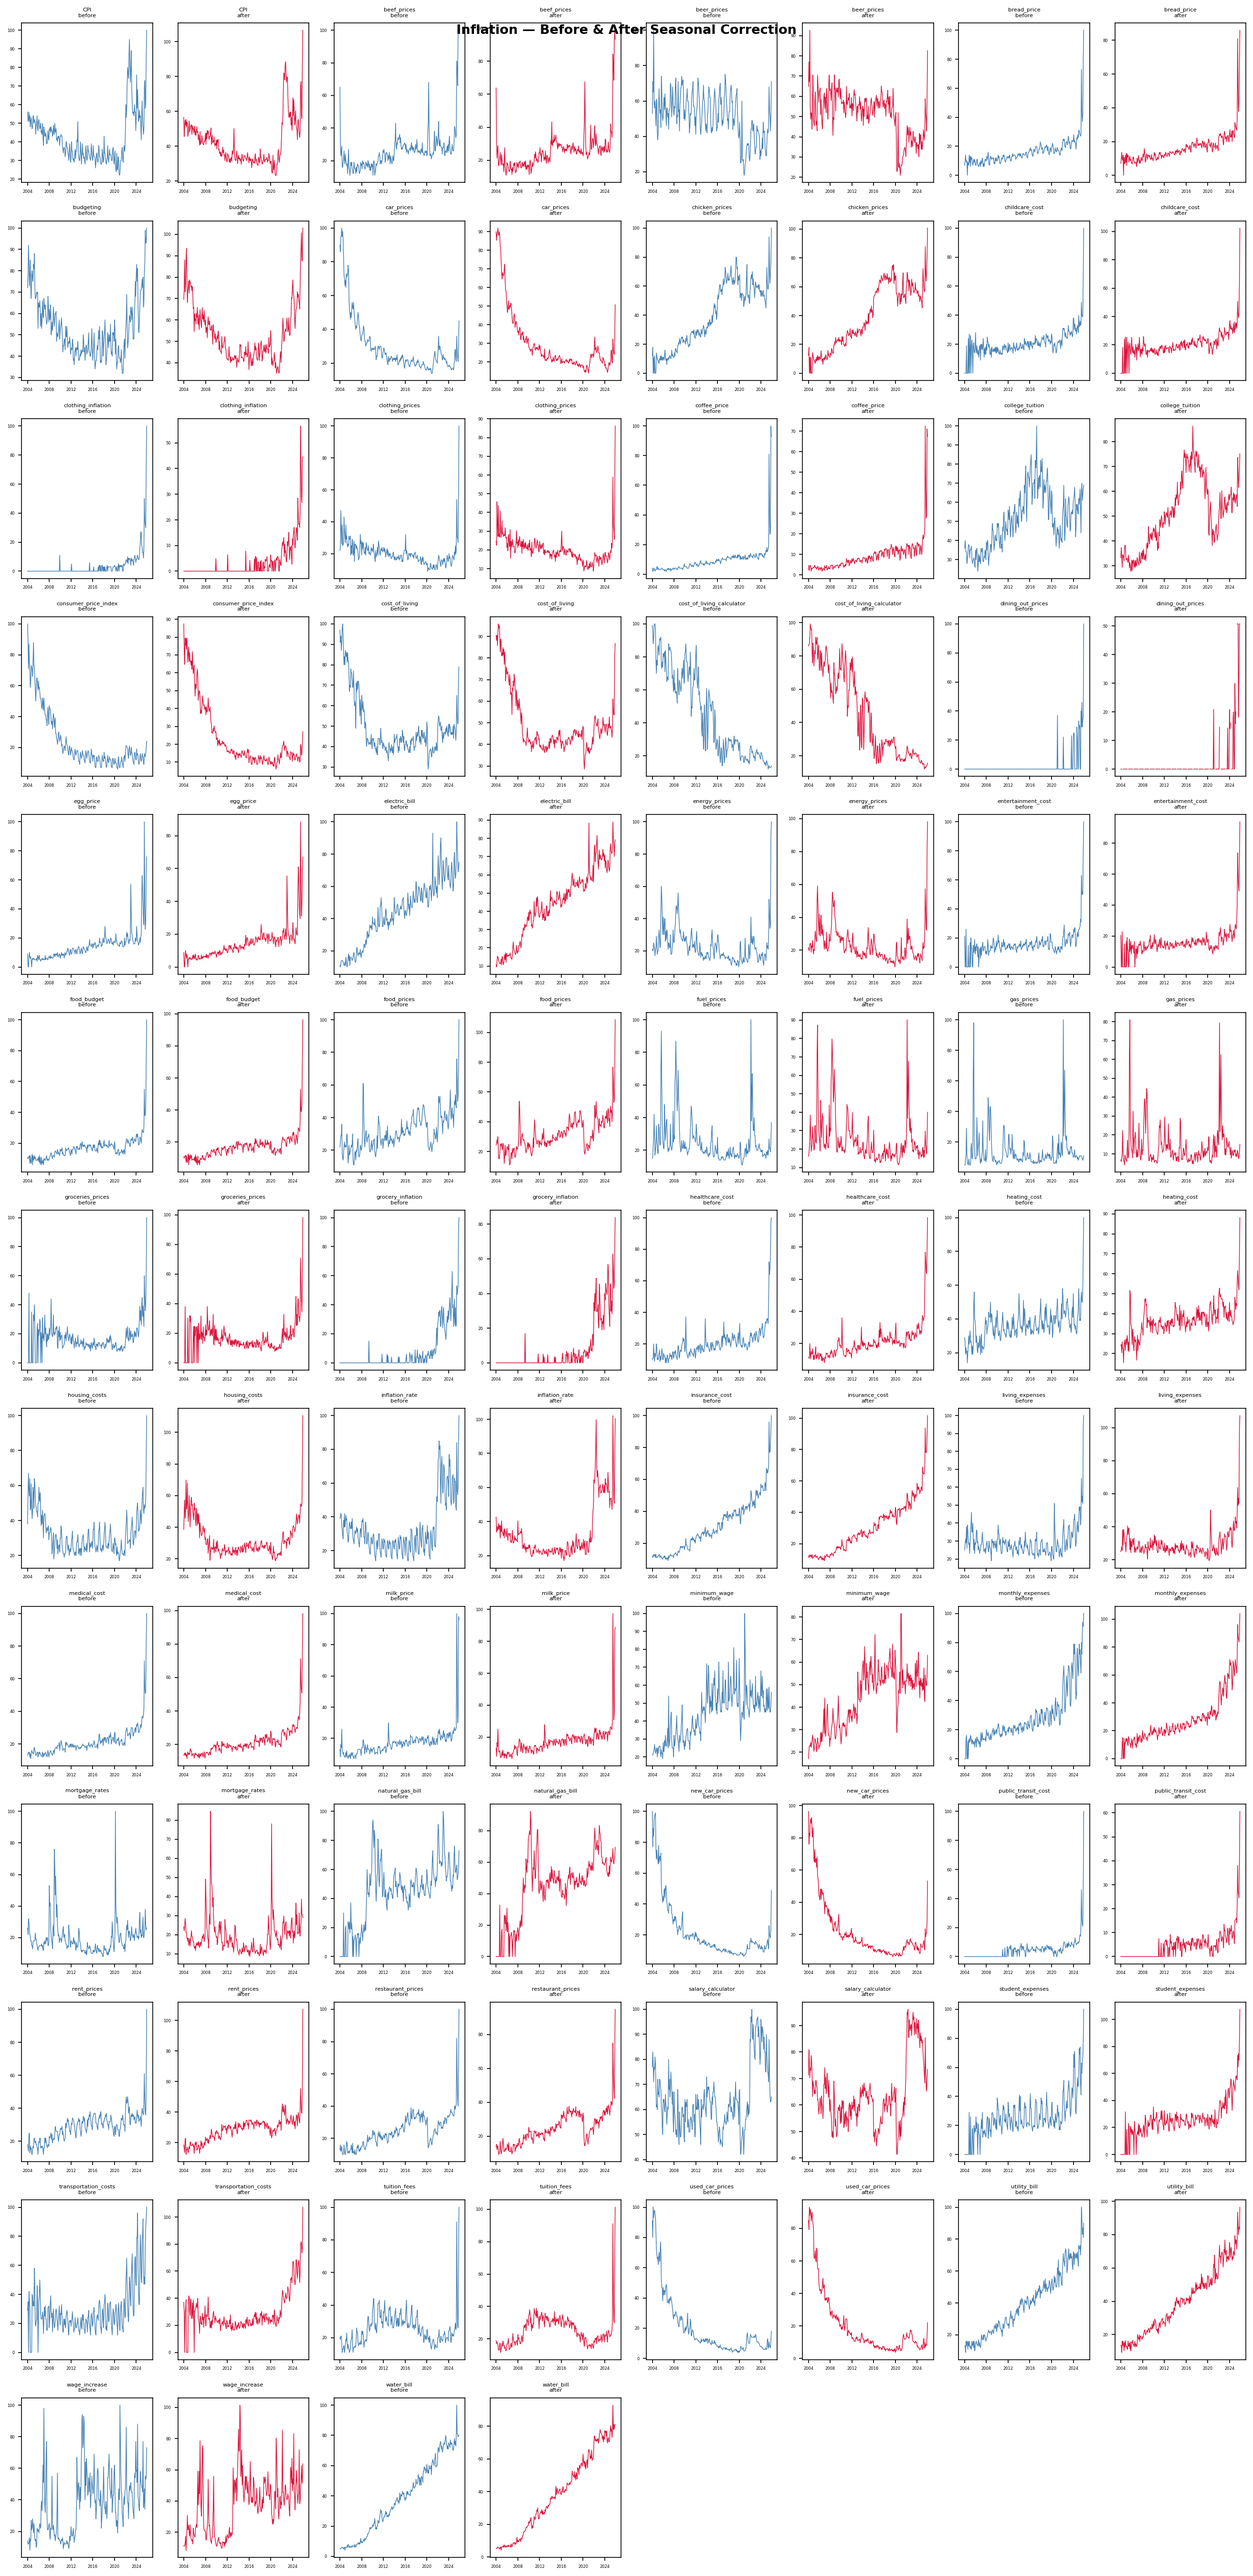
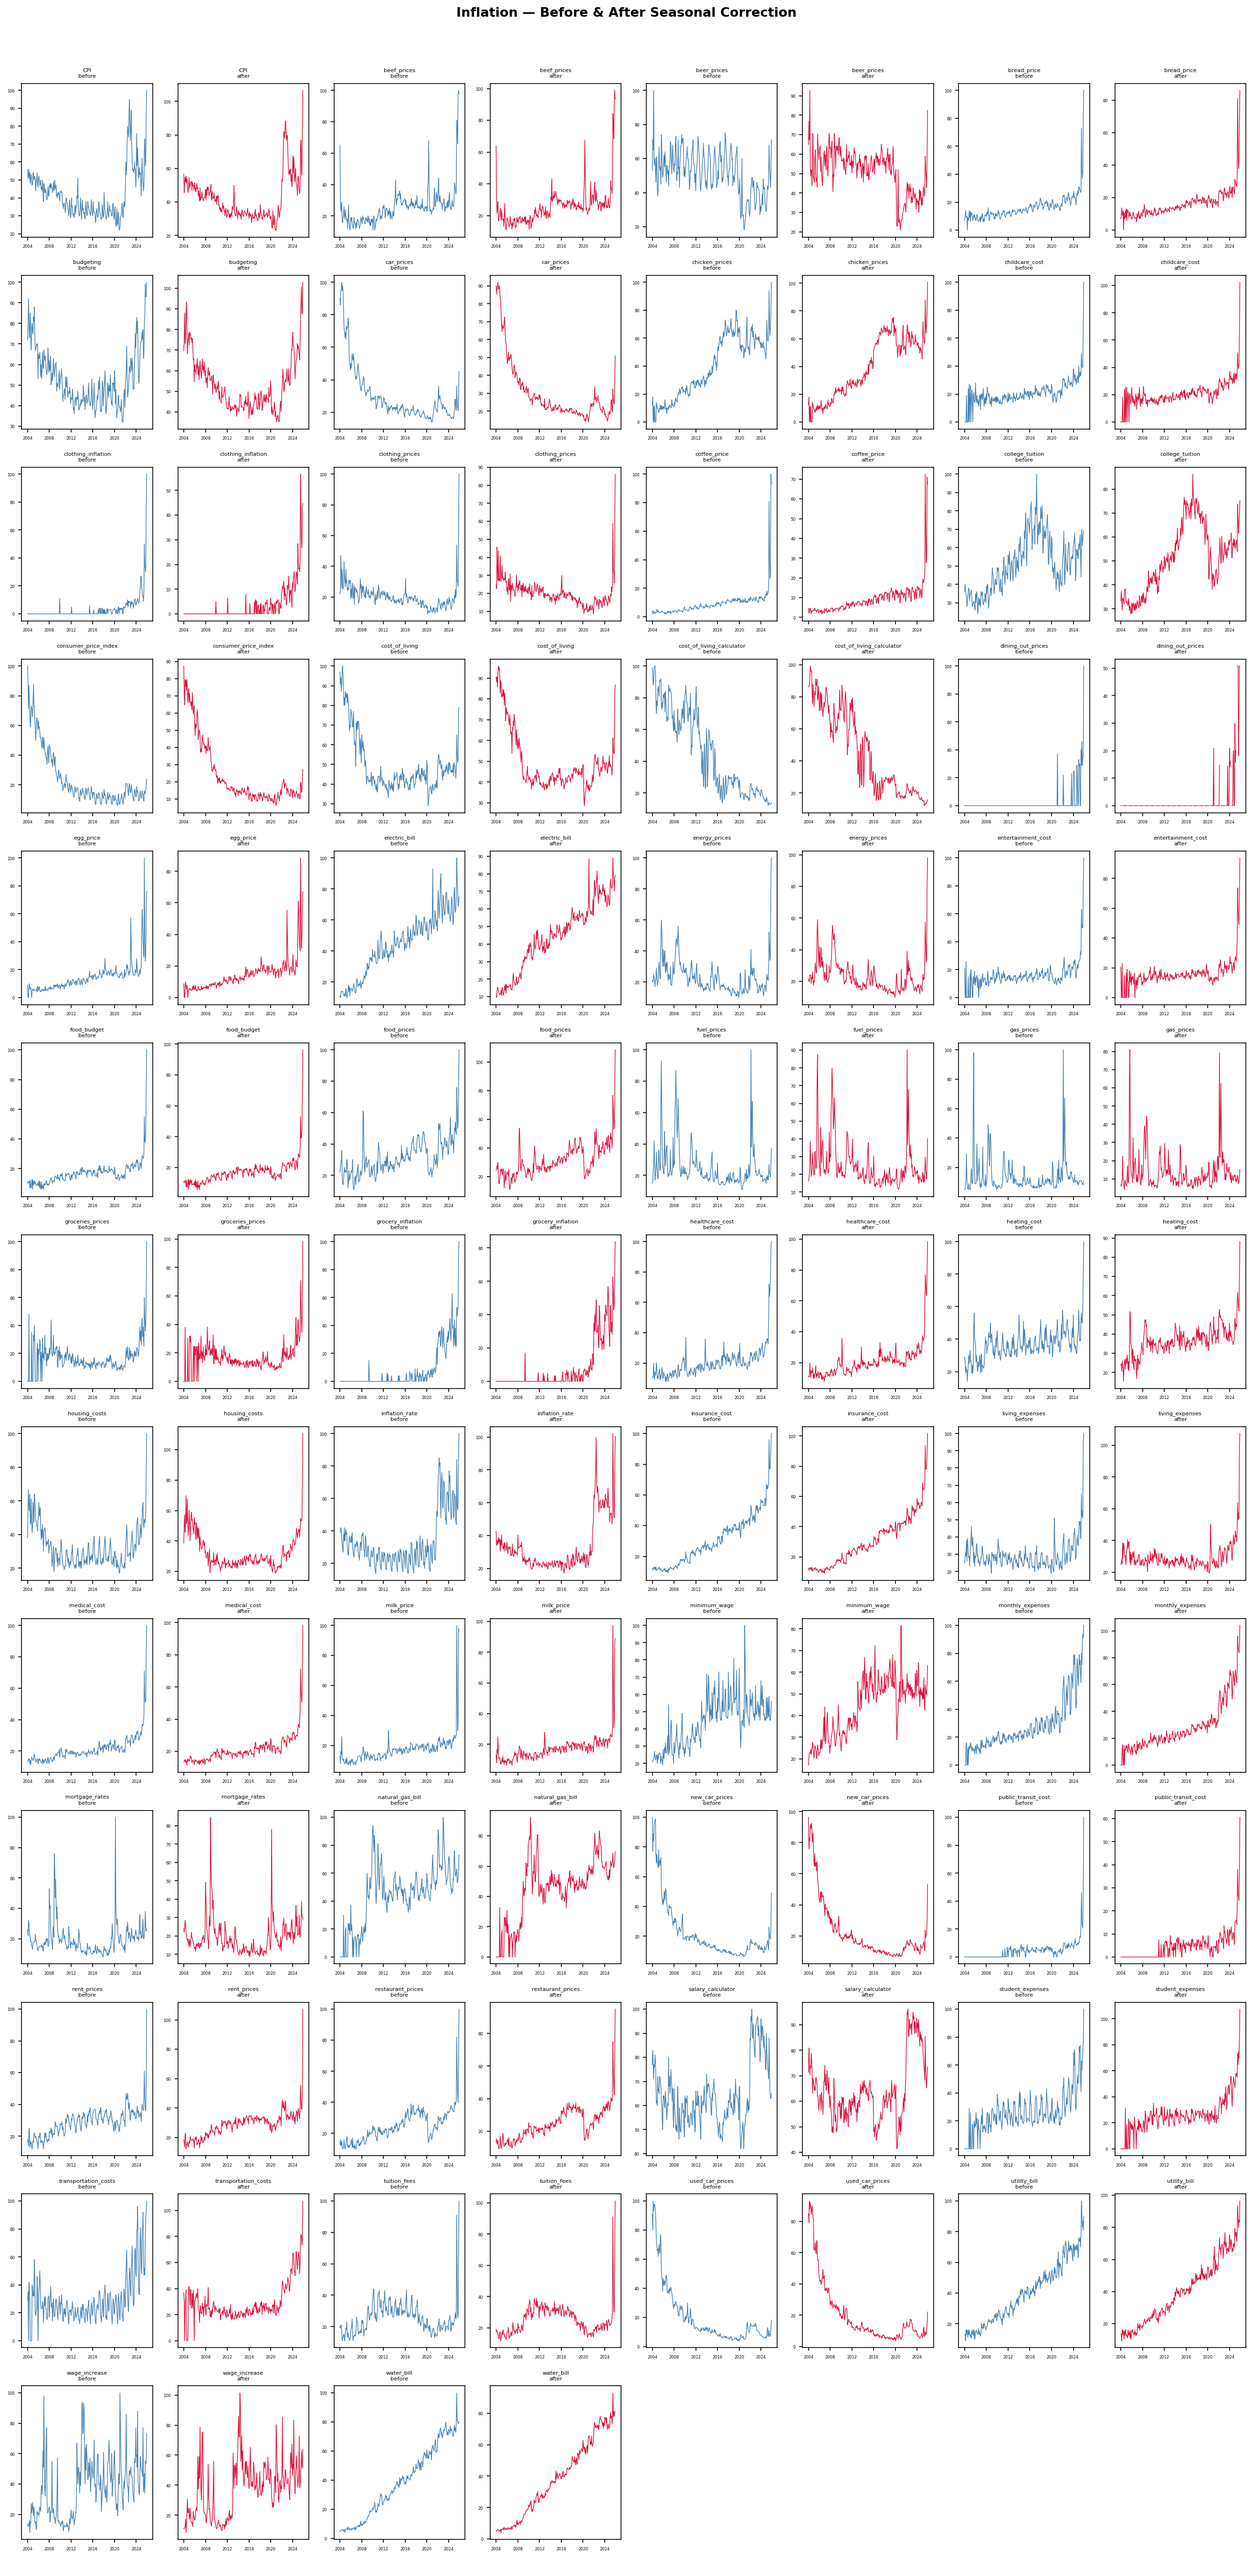
Moved some files around and regenerated better corrected graphs

diff --git a/Graphics_code/Corrected_for_yearly_pattern/plot_credit_debt_monthly_dec_labeled.py b/Graphics_code/Corrected_for_yearly_pattern/plot_credit_debt_monthly_dec_labeled.py
@@ -21,7 +21,7 @@ data = pd.DataFrame(all_series).sort_index()
 average = data.mean(axis=1)
 
 # ====== PLOT ======
-fig, ax = plt.subplots(figsize=(14, 7))
+fig, ax = plt.subplots(figsize=(18, 9))
 
 # Faded individual keyword lines
 for col in data.columns:
@@ -30,21 +30,24 @@ for col in data.columns:
 # Bold average line on top
 ax.plot(average.index, average, color="orange", linewidth=2.5, label="Category average", zorder=5)
 
-ax.set_xlabel("Date")
-ax.set_ylabel("Google Trends Interest")
-ax.set_title("Credit & Debt Keywords (Monthly, 2004-2026)")
-ax.legend(fontsize="small")
+ax.set_ylim(20, 80)
+ax.set_xlabel("Date", fontsize=16)
+ax.set_ylabel("Google Trends Interest", fontsize=16)
+ax.set_title("Credit & Debt Keywords (Monthly, 2004-2026)", fontsize=20)
+ax.tick_params(axis="both", labelsize=13)
+ax.legend(fontsize=14)
 
 # Label every December point on the average line
 dec_points = average[average.index.month == 12]
 for date, val in dec_points.items():
-    ax.annotate(str(date.year)+"\ndec", xy=(date, val), xytext=(4, 4),
-                textcoords="offset points", fontsize=6.5,
+    ax.annotate(str(date.year) + "\ndec", xy=(date, val), xytext=(4, 4),
+                textcoords="offset points", fontsize=11,
                 color="black", fontweight="bold", zorder=10)
     ax.scatter(date, val, color="black", s=20, zorder=6)
+
 plt.tight_layout()
 output_dir = os.path.join(os.path.dirname(__file__), "../../Graphics/Corrected_for_yearly_pattern")
 os.makedirs(output_dir, exist_ok=True)
-plt.savefig(os.path.join(output_dir, "credit_and_debt_average.png"), dpi=150, bbox_inches="tight")
+plt.savefig(os.path.join(output_dir, "credit_and_debt_average.png"), dpi=300, bbox_inches="tight")
 plt.close()
 print("Saved to Graphics/Corrected_for_yearly_pattern/credit_and_debt_average.png")

diff --git a/Graphics_code/Corrected_for_yearly_pattern/before_and_after_iteration.py b/Graphics_code/Corrected_for_yearly_pattern/before_and_after_iteration.py
@@ -61,7 +61,10 @@ for folder in folders:
         axes[j].axis("off")
 
     fig.suptitle(f"{folder} — Before & After Seasonal Correction", fontsize=13, fontweight="bold")
-    plt.tight_layout()
+    plt.tight_layout(rect=[0, 0, 1, 0.97])
+
+    out_path = os.path.join(output_dir, f"{folder}_before_and_after.png")
+    plt.savefig(out_path, dpi=300, bbox_inches="tight")
 
     out_path = os.path.join(output_dir, f"{folder}_before_and_after.png")
     plt.savefig(out_path, dpi=150, bbox_inches="tight")

diff --git a/Data_code/Generating_yearly_pattern_corrected_data/monthly_fluctuation_patterns.py b/Data_code/Generating_yearly_pattern_corrected_data/monthly_fluctuation_patterns.py
@@ -56,3 +56,11 @@ results_df = pd.DataFrame([{
 
 results_df.to_csv(os.path.join(output_dir, "monthly_seasonal_pattern.csv"), index=False)
 print("\nSaved to Data/Corrected_for_yearly_pattern/monthly_seasonal_pattern.csv")
+
+from scipy import stats
+
+groups = [monthly_totals[m] for m in range(1, 13)]
+f_stat, p_value = stats.f_oneway(*groups)
+print(f"\nOne-way ANOVA:")
+print(f"F-statistic: {f_stat:.4f}")
+print(f"P-value:     {p_value:.4e}")
